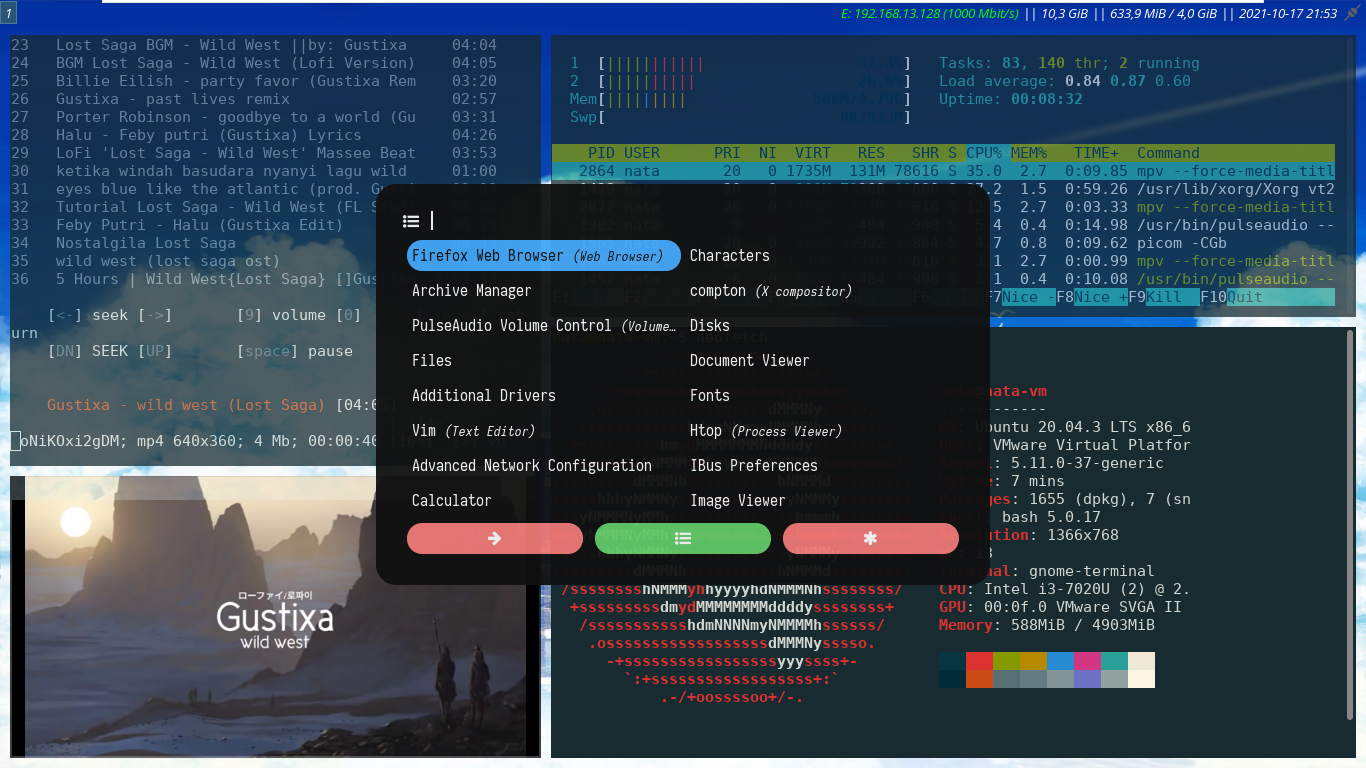
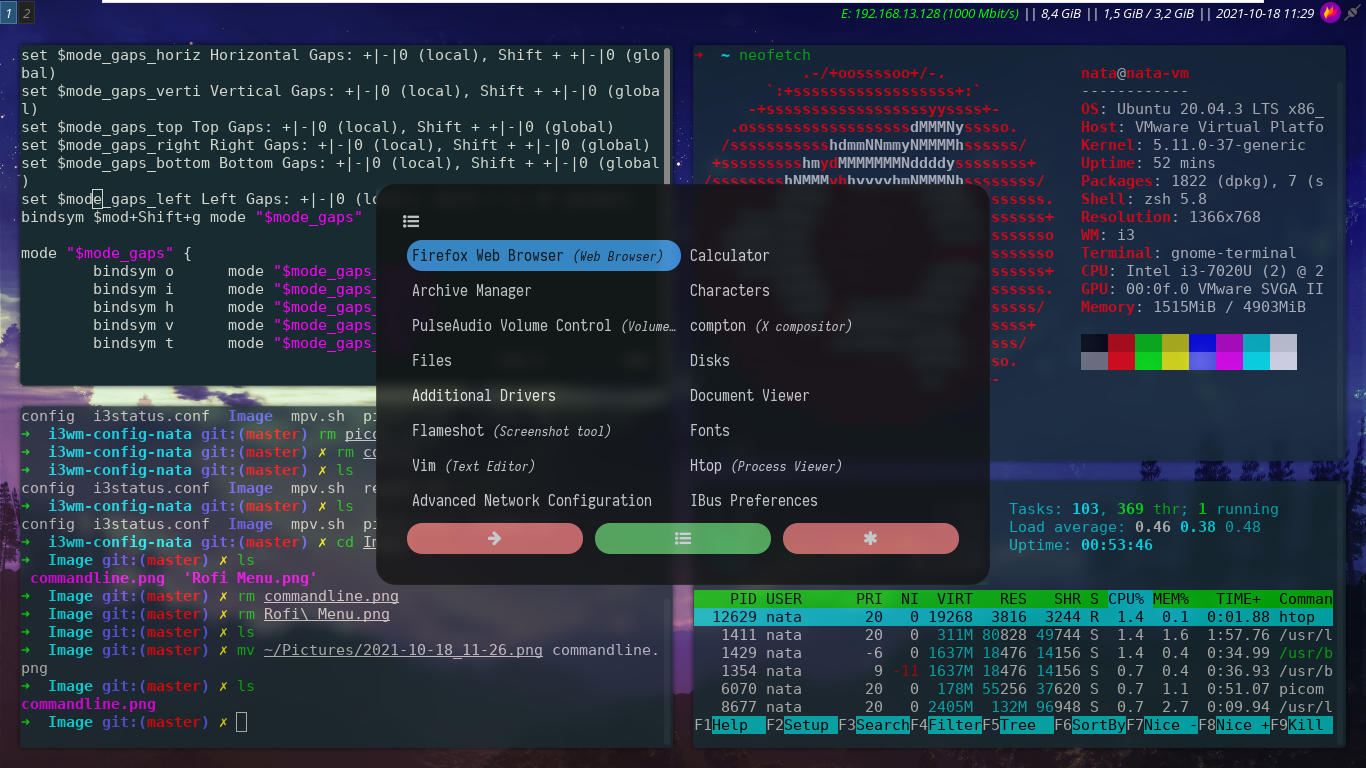
Changing Picom for blur background.Added Screenshot Support.Changed Inner gaps to 20

diff --git a/readme.md b/readme.md
@@ -3,10 +3,11 @@ Iki konfig'e nata gawe i3wm ben linux'e apik bro
 
 ## Programs that are used
 1. [i3wm-gaps](https://github.com/Airblader/i3)
-2. [picom](https://github.com/yshui/picom)
+2. [picom](https://github.com/jonaburg/picom)
 3. [feh](https://feh.finalrewind.org/)
 4. [Rofi](https://github.com/davatorium/rofi)
 5. [Google Open Sans](https://fonts.google.com/specimen/Open+Sans)
+6. [Flameshot](https://github.com/flameshot-org/flameshot)
 
 ### Picom
 [Tutorial for picom](https://www.linuxfordevices.com/tutorials/linux/picom)
@@ -18,9 +19,3 @@ i am using this [Theme Library](https://github.com/adi1090x/rofi) so that i dont
 ![Hasil](https://github.com/Takane42/i3wm-config-nata/blob/master/Image/commandline.png "Hasilnya gan")
 
 ![Hasil](https://github.com/Takane42/i3wm-config-nata/blob/master/Image/Rofi%20Menu.png "Hasilnya gan")
-
-## Side Note for myself
-
-Reminder for my self to change the picom into this [one](https://github.com/jonaburg/picom)
-
-###### Tambahan script mpv.sh buat mpsyt ga error
